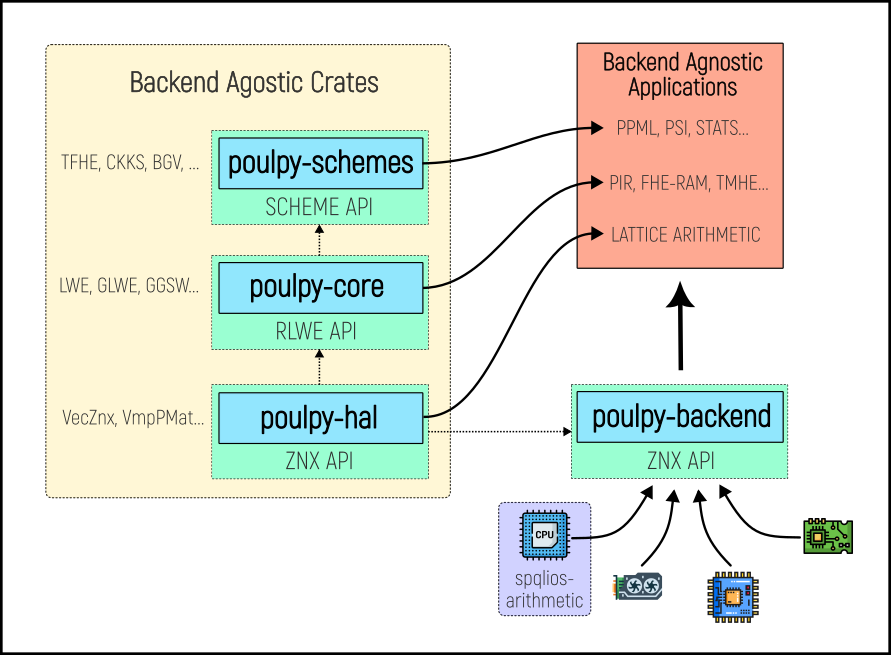
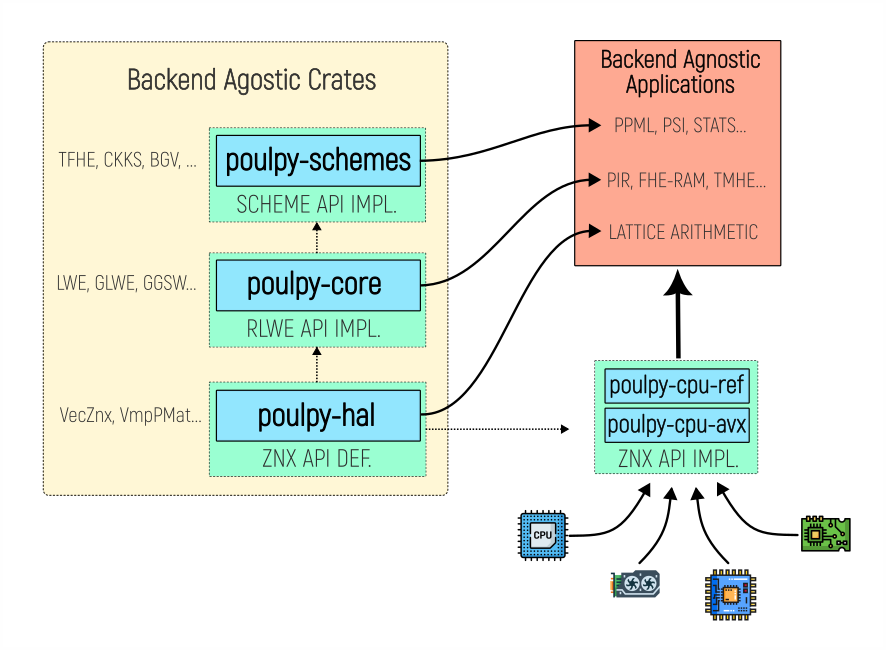
Update doc & readme (#122)
* update poulpy_arch.svg

* update main readme

* update lib_diagram.png & main readme

* update poulpy-core readme

* update backend readmes

* update poulpy-hal readme

* update poulpy-schemes readme

* update CHANGELOG.md

diff --git a/poulpy-core/README.md b/poulpy-core/README.md
@@ -5,14 +5,14 @@
 ## Getting Started
 
 ```rust
-use poulpy_backend::cpu_spqlios::FFT64;
 use poulpy_core::{
-    GLWEOperations, SIGMA,
+    GLWESub, SIGMA,
     layouts::{
-        GLWECiphertext, GLWEPlaintext, GLWESecret, Infos,
-        prepared::{GLWESecretPrepared, PrepareAlloc},
+        Base2K, Degree, GLWE, GLWELayout, GLWEPlaintext, GLWEPlaintextLayout, GLWESecret, LWEInfos, Rank, TorusPrecision,
+        prepared::GLWESecretPrepared,
     },
 };
+use poulpy_cpu_ref::FFT64Ref;
 use poulpy_hal::{
     api::{ModuleNew, ScratchOwnedAlloc, ScratchOwnedBorrow, VecZnxFillUniform},
     layouts::{Module, ScratchOwned},
@@ -23,27 +23,36 @@ fn main() {
     // Ring degree
     let log_n: usize = 10;
 
-    let n: usize = 1<<log_n;
+    let n: Degree = Degree(1 << log_n);
 
     // Base-2-k (implicit digit decomposition)
-    let base2k: usize = 14;
+    let base2k: Base2K = Base2K(14);
 
     // Ciphertext Torus precision (equivalent to ciphertext modulus)
-    let k_ct: usize = 27;
+    let k_ct: TorusPrecision = TorusPrecision(27);
 
     // Plaintext Torus precision (equivament to plaintext modulus)
-    let k_pt: usize = base2k;
+    let k_pt: TorusPrecision = TorusPrecision(base2k.into());
 
     // GLWE rank
-    let rank: usize = 1;
+    let rank: Rank = Rank(1);
 
     // Instantiate Module (DFT Tables)
-    let module: Module<FFT64> = Module::<FFT64>::new(n as u64);
+    let module: Module<FFT64Ref> = Module::<FFT64Ref>::new(n.0 as u64);
+
+    let glwe_ct_infos: GLWELayout = GLWELayout {
+        n,
+        base2k,
+        k: k_ct,
+        rank,
+    };
+
+    let glwe_pt_infos: GLWEPlaintextLayout = GLWEPlaintextLayout { n, base2k, k: k_pt };
 
     // Allocates ciphertext & plaintexts
-    let mut ct: GLWECiphertext<Vec<u8>> = GLWECiphertext::alloc(n, base2k, k_ct, rank);
-    let mut pt_want: GLWEPlaintext<Vec<u8>> = GLWEPlaintext::alloc(n, base2k, k_pt);
-    let mut pt_have: GLWEPlaintext<Vec<u8>> = GLWEPlaintext::alloc(n, base2k, k_pt);
+    let mut ct: GLWE<Vec<u8>> = GLWE::alloc_from_infos(&glwe_ct_infos);
+    let mut pt_want: GLWEPlaintext<Vec<u8>> = GLWEPlaintext::alloc_from_infos(&glwe_pt_infos);
+    let mut pt_have: GLWEPlaintext<Vec<u8>> = GLWEPlaintext::alloc_from_infos(&glwe_pt_infos);
 
     // CPRNG
     let mut source_xs: Source = Source::new([0u8; 32]);
@@ -51,20 +60,20 @@ fn main() {
     let mut source_xa: Source = Source::new([2u8; 32]);
 
     // Scratch space
-    let mut scratch: ScratchOwned<FFT64> = ScratchOwned::alloc(
-        GLWECiphertext::encrypt_sk_tmp_bytes(&module, n, base2k, ct.k())
-            | GLWECiphertext::decrypt_tmp_bytes(&module, n, base2k, ct.k()),
+    let mut scratch: ScratchOwned<FFT64Ref> = ScratchOwned::alloc(
+        GLWE::encrypt_sk_tmp_bytes(&module, &glwe_ct_infos) | GLWE::decrypt_tmp_bytes(&module, &glwe_ct_infos),
     );
 
     // Generate secret-key
-    let mut sk: GLWESecret<Vec<u8>> = GLWESecret::alloc(n, rank);
+    let mut sk: GLWESecret<Vec<u8>> = GLWESecret::alloc_from_infos(&glwe_ct_infos);
     sk.fill_ternary_prob(0.5, &mut source_xs);
 
     // Backend-prepared secret
-    let sk_prepared: GLWESecretPrepared<Vec<u8>, FFT64> = sk.prepare_alloc(&module, scratch.borrow());
+    let mut sk_prepared: GLWESecretPrepared<Vec<u8>, FFT64Ref> = GLWESecretPrepared::alloc(&module, rank);
+    sk_prepared.prepare(&module, &sk);
 
     // Uniform plaintext
-    module.vec_znx_fill_uniform(base2k, &mut pt_want.data, 0, k_pt, &mut source_xa);
+    module.vec_znx_fill_uniform(base2k.into(), &mut pt_want.data, 0, &mut source_xa);
 
     // Encryption
     ct.encrypt_sk(
@@ -80,10 +89,10 @@ fn main() {
     ct.decrypt(&module, &mut pt_have, &sk_prepared, scratch.borrow());
 
     // Diff between pt - Dec(Enc(pt))
-    pt_want.sub_inplace_ab(&module, &pt_have);
+    module.glwe_sub_inplace(&mut pt_want, &pt_have);
 
     // Ideal vs. actual noise
-    let noise_have: f64 = pt_want.data.std(base2k, 0) * (ct.k() as f64).exp2();
+    let noise_have: f64 = pt_want.data.stats(base2k.into(), 0).std() * (ct.k().as_u32() as f64).exp2();
     let noise_want: f64 = SIGMA;
 
     // Check
@@ -169,4 +178,4 @@ ggsw.automorphism(...);
 
 ## Tests
 
-A fully generic test suite is available in [`src/tests/generics`](./src/tests/generics).
+A fully generic test suite is available in [`src/tests/test_suite`](./src/tests/test_suite).

diff --git a/poulpy-cpu-ref/README.md b/poulpy-cpu-ref/README.md
@@ -1,38 +1,18 @@
-# 🐙 Poulpy-Backend
+# 🐙 Poulpy-CPU-AVX
 
-**Poulpy-Backend** is a Rust crate that provides concrete implementations of **`poulpy-hal`**. This crate is used to instantiate projects implemented with **`poulpy-hal`**, **`poulpy-core`** and/or **`poulpy-schemes`**.
+**Poulpy-Backend-CPU-AVX** is a Rust crate that provides the reference CPU implementation of **`poulpy-hal`**. This crate is used to instantiate projects implemented with **`poulpy-hal`**, **`poulpy-core`** and/or **`poulpy-schemes`**.
 
-## Backends
-
-### cpu-spqlios
-
-This module provides a CPU AVX2 accelerated backend through C bindings over [**spqlios-arithmetic**](https://github.com/tfhe/spqlios-arithmetic).
-
-- Currently supported: `FFT64` backend  
-- Planned: `NTT120` backend
-
-### Build Notes
-
-This backend is built and compiled automatically and has been tested on wsl/ubuntu.
-
-- `cmake` is invoked automatically by the build script (`build.rs`) when compiling the crate.  
-- No manual setup is required beyond having a standard Rust toolchain. 
-- Build options can be changed in `/build/cpu_spqlios.rs`
-- Automatic build of cpu-spqlios/spqlios-arithmetic can be disabled in `build.rs`.
-
-Spqlios-arithmetic is windows/mac compatible but building for those platforms is slightly different (see [spqlios-arithmetic/wiki/build](https://github.com/tfhe/spqlios-arithmetic/wiki/build)) and has not been tested in Poulpy.
-
-### Example
+## Example
 
 ```rust
-use poulpy_backend::cpu_spqlios::FFT64;
+use poulpy_backend_cpu_ref::FFT64Ref;
 use poulpy_hal::{api::ModuleNew, layouts::Module};
 
 let log_n: usize = 10;
-let module = Module<FFT64> = Module<FFT64>::new(1<<log_n);
+let module = Module<FFT64Ref> = Module<FFT64Ref>::new(1<<log_n);
 ```
 
 ## Contributors
 
-To add a backend, implement the open extension traits from **`poulpy-hal/oep`** for a struct that implements the `Backend` trait.  
+To add your own backend, implement the open extension traits from **`poulpy-hal/oep`** for a struct that implements the `Backend` trait.  
 This will automatically make your backend compatible with the API of **`poulpy-hal`**, **`poulpy-core`** and **`poulpy-schemes`**.

diff --git a/README.md b/README.md
@@ -17,8 +17,9 @@
 
 - **`poulpy-hal`**: a crate providing layouts and a trait-based hardware acceleration layer with open extension points, matching the API and types of spqlios-arithmetic. This crate does not provide concrete implementations other than the layouts (e.g. `VecZnx`, `VmpPmat`).
 - **`poulpy-core`**: a backend agnostic crate implementing scheme agnostic RLWE arithmetic for LWE, GLWE, GGLWE and GGSW ciphertexts using **`poulpy-hal`**. Can be instantiated with any backend provided by **`poulpy-backend`**.
-- **`poulpy-schemes`**: a backend agnostic crate implementing mainstream FHE schemes using **`poulpy-core`** and **`poulpy-hal`**. The crate can be instantiated with any backend provided by **`poulpy-backend`**.
-- **`poulpy-backend`**: a crate providing concrete implementations of **`poulpy-hal`** for various representations and hardwares.
+- **`poulpy-schemes`**: a backend agnostic crate implementing mainstream FHE schemes using **`poulpy-core`** and **`poulpy-hal`**.
+- **`poulpy-cpu-ref`**: the reference CPU implementatin of **`poulpy-hal`**.
+- **`poulpy-cpu-ref`**: an AVX accelerated CPU implementation of **`poulpy-hal`**.
 
 ## Bivariate Polynomial Representation
 
@@ -43,7 +44,8 @@ This provides the following benefits:
 - **`poulpy-hal`**: https://crates.io/crates/poulpy-hal
 - **`poulpy-core`**: https://crates.io/crates/poulpy-core
 - **`poulpy-schemes`**: https://crates.io/crates/poulpy-schemes
-- **`poulpy-backend`**: https://crates.io/crates/poulpy-backend
+- **`poulpy-cpu-ref`**: https://crates.io/crates/poulpy-cpu-ref
+- **`poulpy-cpu-avx`**: https://crates.io/crates/poulpy-cpu-avx
 
 ## Documentation
 
@@ -70,9 +72,9 @@ Poulpy is licensed under the Apache-2.0 License. See [NOTICE](./NOTICE) & [LICEN
 Please use the following BibTex entry for citing Poulpy
 
     @misc{poulpy,
-	    title = {Poulpy v0.3.0},
+	    title = {Poulpy v0.4.0},
 	    howpublished = {Online: \url{https://github.com/phantomzone-org/poulpy}},
-	    month = Oct,
+	    month = Nov,
 	    year = 2025,
 	    note = {Phantom Zone}
     }

diff --git a/CHANGELOG.md b/CHANGELOG.md
@@ -1,6 +1,37 @@
 # CHANGELOG
 
-## [0.3.2] - 2025-10-27
+## [0.4.0] - 2025-10-27
+
+### Summary
+- Full support for base2k operations.
+- Many improvments to BDD arithmetic.
+- Removal of **poulpy-backend** & spqlios backend.
+- Addition of individual crates for each specific backend.
+- Some minor bug fixes.
+
+### `poulpy-hal`
+- Add cross-base2k normalization
+
+### `poulpy-core`
+- Add full support for automatic cross-base2k operations & updated tests accordingly.
+- Updated noise helper API.
+- Fixed many tests that didn't assess noise correctly.
+- Fixed decoding function to use arithmetic rounded division instead of arithmetic right shift.
+- Fixed packing to clean values correctly.
+
+### `poulpy-schemes`
+- Renamed `tfhe` crate to `bin_fhe`.
+- Improved support & API for BDD arithmetic, including multi-thread acceleration.
+- Updated crate to support cross-base2k operations.
+- Add additional operations, such as splice_u8, splice_u16 and sign extension.
+- Add `GLWEBlindRetriever` and `GLWEBlindRetrieval`: a `GGSW`-based blind reversible retrieval (enables to instantiate encrypted ROM/RAM like object).
+- Improved Cmux speed
+
+### `poulpy-cpu-ref`
+- A new crate that provides the refernce CPU implementation of **poulpy-hal**. This replaces the previous **poulpy-backend/cpu_ref**.
+
+### `poulpy-cpu-avx`
+- A new crate that provides an AVX/FMA accelerated CPU implementation of **poulpy-hal**. This replaces the previous **poulpy-backend/cpu_avx**.
 
 ### `poulpy-schemes`
  - Added `sign` argument to GGSW-based blind rotation, which enables to choose the rotation direction of the test vector.

diff --git a/poulpy-cpu-avx/README.md b/poulpy-cpu-avx/README.md
@@ -1,6 +1,6 @@
-# 🐙 Poulpy-Backend
+# 🐙 Poulpy-CPU-REF
 
-**Poulpy-Backend-CPU-AVX** is a Rust crate that provides concrete implementations of **`poulpy-hal`**. This crate is used to instantiate projects implemented with **`poulpy-hal`**, **`poulpy-core`** and/or **`poulpy-schemes`**.
+**Poulpy-Backend-CPU-AVX** is a Rust crate that provides an AVX accelerated CPU implementation of **`poulpy-hal`**. This crate is used to instantiate projects implemented with **`poulpy-hal`**, **`poulpy-core`** and/or **`poulpy-schemes`**.
 
 ## Example
 
@@ -14,5 +14,5 @@ let module = Module<FFT64Avx> = Module<FFT64Avx>::new(1<<log_n);
 
 ## Contributors
 
-To add a backend, implement the open extension traits from **`poulpy-hal/oep`** for a struct that implements the `Backend` trait.  
+To add your own backend, implement the open extension traits from **`poulpy-hal/oep`** for a struct that implements the `Backend` trait.  
 This will automatically make your backend compatible with the API of **`poulpy-hal`**, **`poulpy-core`** and **`poulpy-schemes`**.

diff --git a/poulpy-schemes/README.md b/poulpy-schemes/README.md
@@ -8,5 +8,8 @@ See [./examples/circuit_bootstrapping.rs](./examples/circuit_bootstrapping.rs)
 
 ## Available Schemes
 
-- TFHE/FHEW: under construction. Blind rotation & circuit bootstrapping implemented.
-- CKKS: planned
+- **BIN FHE**:
+  - **bdd_arithmetic**: high level API for u32 arithmetic (u8 to u256 planned) using binary decision circuits. Also provides API for blind retrieval, blind rotation (using encpypted integers) and blind selection.
+  - **blind_rotation**: API for blind rotation (LWE(m) -> GLWE(X^m))
+  - **circuit_bootstrapping**: API for circuit bootstrapping (LWE(m) -> GGSW(m) or GGSW(X^m)).
+- **CKKS**: planned

diff --git a/poulpy-hal/README.md b/poulpy-hal/README.md
@@ -82,6 +82,6 @@ flowchart TD
     E{SvpApply}-->VecZnxDft-->|IDFT|VecZnxBig-->|Normalize|VecZnx
 ```
 
-## Testing
+## Tests
 
-A full generic and backend agnostic testing suit for the layouts and public API is planned. This will allow to test the correctness of any backend easily.
+A fully generic cross-backend test suite is available in [`src/test_suite`](./src/test_suite).
